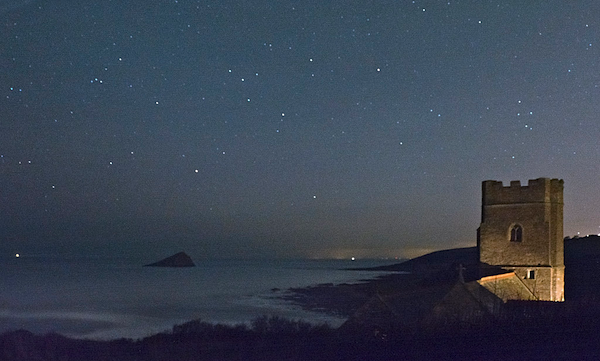
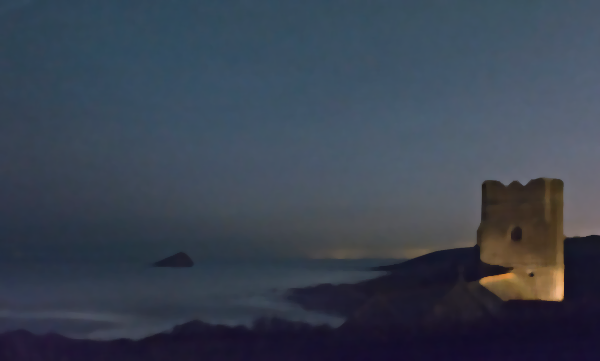
Median Filter is Working !!

diff --git a/Image.cpp b/Image.cpp
@@ -1,4 +1,6 @@
 #include "Image.hpp"
+#include <algorithm>
+#include <iostream>
 
 namespace prog
 {
@@ -119,5 +121,57 @@ namespace prog
     }
   }
 
+    void Image::median_filter(int n, Image* image_filtered){
+    int amp = (n - 1) / 2; 
+    for (int row = 0; row < H; row++){
+      for (int col = 0; col < W; col++){
+        // for every pixel, fix a square with n.n squares and center in the pixel
+        std::vector<Color> square;
+        for (int s_row = row - amp; s_row <= row + amp; s_row++){
+          for (int s_col = col - amp; s_col <= col + amp; s_col++){
+            bool check_vertical = (s_row >= 0) && (s_row < H);
+            bool check_horizontal = (s_col >= 0) && (s_col < W);
+            if (check_horizontal && check_vertical){
+              square.push_back(M[s_row][s_col]);
+              // square[0] = M[s_row][s_col];
+              continue;
+            }
+          }
+        }
+        (image_filtered->M)[row][col] = color_median(square);
+      }
+    }
+  }
+
+  // Should this helper function be defined *here* and as *private*
+  rgb_value median(std::vector<rgb_value> values){
+    std::sort(values.begin(), values.end());
+    rgb_value result;
+    int vectorSize = values.size();
+    if (vectorSize % 2 == 1){
+        result = values[(vectorSize/2)];
+    }
+    else {
+        result = (values[(vectorSize + 1) / 2] + values[(vectorSize - 1) / 2]) / 2;
+    }
+    return result;
+  }
+  
+
+  Color color_median(std::vector<Color> square){
+    std::vector<rgb_value> reds(square.size()), greens(square.size()), blues(square.size());
+    for (int v_idx = 0; v_idx < (int)square.size(); v_idx++){
+      reds[v_idx] = square[v_idx].red();
+      greens[v_idx] = square[v_idx].green();
+      blues[v_idx] = square[v_idx].blue();
+    }
+    rgb_value mr, mg, mb;
+    mr = median(reds);
+    mg = median(greens);
+    mb = median(blues);
+    return {mr, mg, mb};
+  }
+
+  
 }
 

diff --git a/Script.cpp b/Script.cpp
@@ -89,6 +89,10 @@ namespace prog {
                 rotate_right();
                 continue;
             }
+            if (command == "median_filter"){
+                median_filter();
+                continue;
+            }
         }
     }
     void Script::open() {
@@ -198,6 +202,19 @@ namespace prog {
             delete image;
             image = image_rotated;
             image_rotated = nullptr;
+        }
+    }
+
+    void Script::median_filter(){
+        // Apply a median filter of n
+        Image *image_filtered = new Image(image->width(), image->height());
+        int n;
+        input >> n;
+        image->median_filter(n, image_filtered);
+        if (image != nullptr) {
+            delete image;
+            image = image_filtered;
+            image_filtered = nullptr;
         }
     }
 }

diff --git a/Image.hpp b/Image.hpp
@@ -2,6 +2,7 @@
 #define __prog_Image_hpp__
 #include "Color.hpp"
 #include <vector>
+#include <algorithm>
 
 namespace prog
 {
@@ -35,6 +36,12 @@ namespace prog
     void crop(int x, int y, Image* image_cropped);
     void rotate_left(Image* image_rotated);
     void rotate_right(Image* image_rotated);
+
+    // Advanced Functionality
+    void median_filter(int n, Image* image_filtered);
   };
+
+  Color color_median(std::vector<Color> vec);
+
 }
 #endif

diff --git a/Script.hpp b/Script.hpp
@@ -38,6 +38,9 @@ namespace prog
     void crop();
     void rotate_left();
     void rotate_right();
+
+    // Advanced Functionality
+    void median_filter();
   };
 }
 #endif
